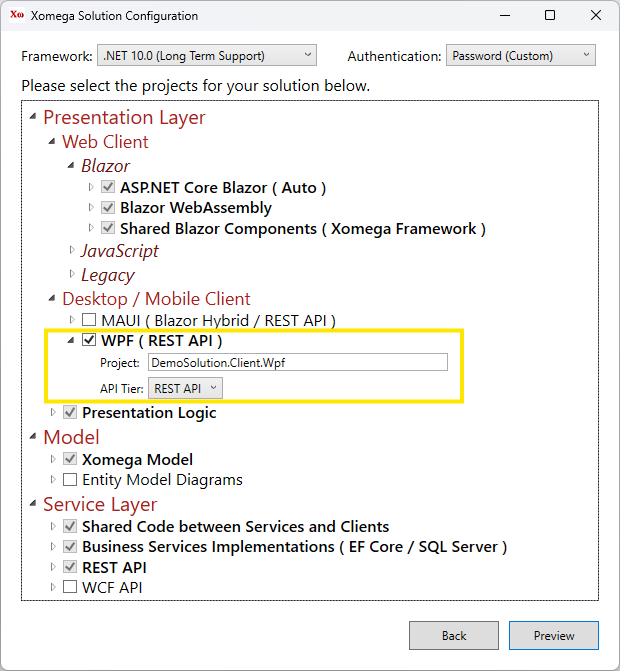
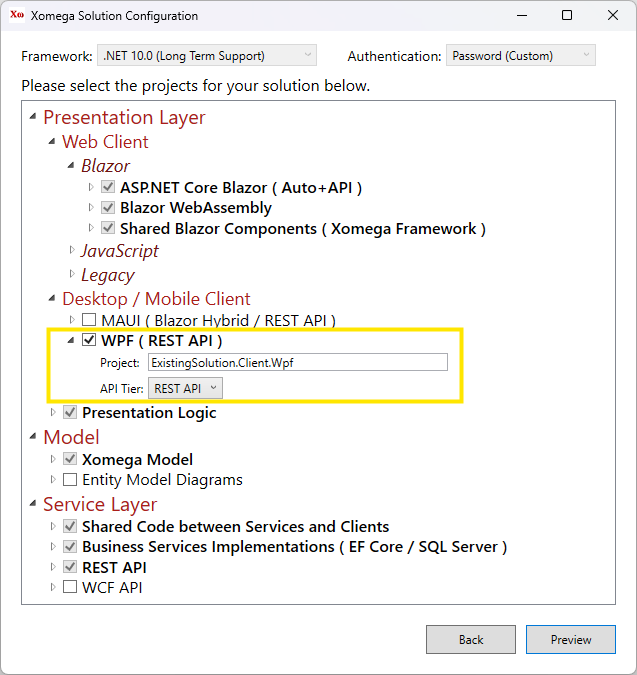
Updated docs on adding to existing solution. Updated release notes with additional bug fixes.

diff --git a/docs/visual-studio/new-projects/adding-to-solution.md b/docs/visual-studio/new-projects/adding-to-solution.md
@@ -2,110 +2,84 @@
 sidebar_position: 3
 ---
 
-# Adding to Xomega Solutions
+# Updating Xomega Solutions
 
-If you selected some projects when creating a new Xomega solution but then decided to include additional supported technologies, then you can use the same Xomega solution wizard to select and add new projects to your solution.
+If you [created a Xomega solution](new-solutions) with a certain set of projects and configuration, then you can easily add new Xomega projects to that solution later on, as well as change some configuration on the existing projects by using the same Xomega solution wizard that you used to create the solution.
 
-:::warning
-The wizard will configure any new projects that you will add, but it **won't update any existing projects**, specifically the `.Model` project, like it would have, had you selected those projects during the initial solution creation.
+## Solution update wizard
 
-You will need to make any such updates to the existing projects manually.
-:::
+To launch the Xomega solution wizard for existing solutions, right-click on the *Solution* node and select *Add > New Project*, as follows.
 
-## Example: Adding WPF client to a Blazor app
+![Add to solution](img/solution-add-project.png)
 
-For example, let's imagine that you initially created a `DemoSolution` for Blazor Server + WebAssembly, but *with standalone REST API* that is not hosted by the Blazor project. Your solution structure would look as follows.
-
-![DemoSolution](img/blazor-auto.png)
-
-### Adding a new Xomega project
-
-Now you decided to also add a desktop WPF client to your solution, which would use the existing REST API as the backend. To add the relevant projects, you can right-click on the *Solution* node, select *Add > New Project*, and pick `Xomega` as the project type, as follows.
+Then, in the *Add a new project* dialog, select `Xomega` as the project type and *Xomega Solution* template, and click *Next*.
 
 ![Add new project](img/add-new-project.png)
 
-In the next screen, you can leave the project name to be the default value.
+In the next screen, you can **skip populating the *Project name* and *Location*** fields, since the wizard will use the names of the existing projects in the solution, as well as solution's current location, and just click *Create* to proceed to the next screen.
 
 ![New project name](img/new-project-name.png)
 
-This *Project name* won't matter since the wizard will use the existing solution name to generate a default name for the new project, which you can also update later.
+The next screen will be the same *Xomega Solution Configuration* dialog that you used to [create the solution](new-solutions#selecting-solution-components), but with the existing solution configuration options prepopulated and disabled, where the solution wizard doesn't allow changing such configuration options, as illustrated below.
 
-### Adding WPF desktop client
+![Existing project wizard](img/solution-existing-projects.png)
 
-The existing solution projects displayed in the Xomega solution configuration will not be editable, but you will be able to add a *WPF* desktop client to the selection and set the *API Tier* to `REST API`, as illustrated below.
+Existing projects in the solution will be selected and disabled in the wizard, since you can't remove any existing projects, but you can select additional projects to add to the solution and configure them as needed. Configuration options on the existing projects that cannot be changed in the wizard due to major solution updates required will be disabled as well. However, some existing configuration options can be changed, as described in the next sections.
+
+### Files overwrite warning
+
+Adding new projects to the existing solution, as well as changing some configuration options on the existing projects, may require not only adding new files to the solution, but also updating some existing files, which may **overwrite any custom changes** that you may have made to those files.
+
+Specifically, new projects may require updates to the global model configuration file `global_config.xom`, project files that will be used by the new projects, as well as some startup project files `Program.cs` for additional configuration.
+
+:::danger
+Before updating your solution using the Xomega solution wizard, make sure to **commit any changes** that you may have in your source control, so that you can easily review any changes made by the wizard and revert any unwanted changes if needed.
+:::
+
+## Adding new Xomega projects
+
+To add new Xomega projects to the existing solution, just select the desired project types in the wizard and configure them as needed. You can add any number of new projects of any type, and they will be properly configured with dependencies on any existing projects in the solution.
+
+### Adding entity diagrams
+
+If you want to be able to generate entity model diagrams for your model entities, then you can add a new [*Entity Model Diagrams*](solution-structure#solutionnamemodeldiagrams) project. In addition to the new project, this will also add [*Entity Data Model* generator](../../generators/data/edm) to the model project, as well as required EDM type mappings. The following screenshot illustrates the new project and the generated diagrams for the sample model.
+
+![Model diagrams](img/model-diagrams.png)
+
+### Adding modern projects
+
+Xomega solutions are architected in a way that allows multiple UI projects using different technologies to coexist in the same solution and share the same model, services and even common presentation logic. For example, if your existing solution has a Blazor Server and WebAssembly projects, you can easily add a WPF desktop client project to the same solution and share the same model and services with it, as shown below.
 
 ![Add WPF with rest](img/add-wpf-rest.png)
 
 :::note
-Notice how the default project names are automatically generated based on the solution name here, and disregard the project name that you supplied in the previous screen.
+Notice how the default project names are automatically generated based on the solution name here, and disregard the project name from the previous *Configure your new project* screen.
 :::
 
-After you hit *Preview* and then *Create*, you'll see the new project in your solution, preconfigured with proper dependencies on any existing projects, as shown below.
+Adding a WPF project will require updating the `global_config.xom` file to specify the assembly for the shared data objects, which may [overwrite any custom changes](#files-overwrite-warning) that you may have in that file.
 
-![WPF solution](img/wpf-solution.png)
+Similarly, if your initial Blazor project was hosting the REST API for the WebAssembly client, then adding a new WPF project with REST API will require updating the `.Services.Rest` project to allow running it separately and enable JWT authentication, which may also overwrite any changes that you may have in that project. The same applies to adding other client projects with REST API, such as MAUI or SPA projects.
 
-### Additional manual updates
+### Adding legacy projects
 
-Now you have to update and configure any existing projects to support the newly added projects. Normally, when creating a new solution from scratch, those projects are automatically configured for the selected technologies by the solution wizard. However, since we added a new project to an existing solution, we'll need to configure the existing projects manually.
+Xomega solution wizard also allows adding legacy projects that require .NET Framework, such as ASP.NET Web Forms or WCF. However, since those projects reuse the same presentation and/or service logic as the modern projects, you will need to update shared projects to enable multi-targeting for both .NET Framework and .NET to make this setup work.
 
-To make this process easier you should open another instance of Visual Studio and [create a new Xomega solution](new-solutions) for the WPF client with REST API in a separate folder, using the same solution name `DemoSolution`, which you'll use as a template. This will allow you to just copy any configuration from that folder into your existing solution.
+This multi-targeting setup is supported if you select both legacy and modern projects in the wizard when creating the solution, but not when adding legacy projects to an existing solution with modern projects, since this is not something you normally would want to do in practice, so you'll need to make some manual updates to the project files for the shared projects.
 
-#### Adding WPF controls type configs
+## Updating Xomega projects
 
-Copy the `DemoSolution.Model\Framework\TypeConfigs\wpf_controls.xom` from the new template WPF solution that you created earlier to your existing solution. This will add the necessary type configurations for generating WPF controls in your existing solution.
+In addition to adding new projects to the existing solution, Xomega solution wizard also allows limited updates to the existing projects, as described below.
 
-#### Adding WPF Views generator
+### Switching to Syncfusion components
 
-To add a *WPF Views* generator, copy the generator configuration file from the `.Generators\PresentationLayer\WPF\WPF Views.xgen` in your template WPF solution project to your existing project, and make sure the paths and namespaces match your existing solution, as illustrated below.
+If you initially created a Blazor project with `Xomega Framework` Blazor components, you can switch it to use Syncfusion Blazor components by changing the *Components* option on the *Shared Blazor Components* project to `Syncfusion` in the solution wizard, as shown below.
 
-```xml title='.Generators\PresentationLayer\WPF\WPF Views.xgen'
-<XomGeneratorConfig xmlns="http://schemas.xomega.net/v10/xgen"
-                    xmlns:view="http://schemas.xomega.net/v10/xgen/views">
-  ...
-  <Generator Xsl="UI/WPF/wpf_views.xsl"
-             GeneratorGroup="presentation"
-             IncludeInBuild="true"
-             IndividualFiles="true"/>
+![Switch to Syncfusion](img/blazor-config-change.png)
 
-<!-- highlight-start -->
-  <view:Output Path="../DemoSolution.Client.Wpf/Views/{Module/}{File}"
-               RegistryFile="../DemoSolution.Client.Wpf/Views/Views.cs"
-               MenuFile="../DemoSolution.Client.Wpf/Controls/MainMenu"/>
+This will add type configurations for Syncfusion components to the Model project under `Framework/TypeConfigs/blazor_xsf.xom`, as well as the [*Syncfusion Blazor Views* generator](../../generators/presentation/blazor/views-xsf), which will be included in the Model build.
 
-  <view:Parameters Namespace="DemoSolution.Client.Wpf"/>
-<!-- highlight-end -->
+:::danger
+This will also update the existing Blazor projects and their main files, such as `Program.cs`, `appsettings.json`, `_Imports.razor` and `App.razor` to switch to Syncfusion components, which may [**overwrite any custom changes**](#files-overwrite-warning) that you may have in those files.
+:::
 
-</XomGeneratorConfig>
-```
-
-
-You should now be able to see the *WPF Views* generator under the *.Generators > Presentation Layer > WPF* folder, as well as the `wpf_controls.xom` that you included earlier, as shown below.
-
-![WPF Views](img/wpf-views.png)
-
-#### Adding assembly config for data objects
-
-When generating WPF views, the generator needs to know the namespace and assembly where the data objects are located. Therefore, you need to update the `xfk:data-objects-config` element in the `global_config.xom` file to include the assembly name, as shown below.
-
-```xml title="global_config.xom"
-...
-  <!-- configuration for generation of UI data objects -->
-  <xfk:data-objects-config
-    namespace="DemoSolution.Client.Common.DataObjects"
-<!-- added-next-line -->
-    assembly="DemoSolution.Client.Common"
-  />
-...
-```
-
-Now you want to right-click on the `DemoSolution.Model` project and select *Build* to generate any additional artifacts for the new project.
-
-#### Other possible updates
-
-If you initially had the REST API hosted by the Blazor application rather than as a standalone service, then you would need to do some additional updates, as described below.
-
-- Copy the `DemoSolution.Services.Rest/Program.cs` file from the template solution to the existing REST API project to allow running it separately.
-- Update the `DemoSolution.Services.Rest/AuthController` class to enable JWT authentication using the corresponding code from the template solution.
-- Copy `DemoSolution.Client.Common/ServiceClients/Auth/JwtLoginServiceClient.cs` from the template solution to handle JWT authentication on the client.
-
-Any other initial configurations or a different configuration of the new project may require additional manual updates, as appropriate.
+Note that switching to Syncfusion components will not remove the existing `blazor.xom` type configuration file and the [*Blazor Views* generator](../../generators/presentation/blazor/views), which will be excluded from the Model build. This allows you to easily switch back to the original Xomega Framework Blazor components if so desired. Therefore, the option to select Blazor *Components* in the wizard will become disabled after that.

diff --git a/docs/platform/releases/vs2026.md b/docs/platform/releases/vs2026.md
@@ -10,7 +10,7 @@ Below is a summary of the release notes for the *Xomega.Net for Visual Studio 20
 
 ## Version 10.1.0
 
-Release Date: 6/?/2026
+Release Date: 6/18/2026
 
 ### New features
 
@@ -24,8 +24,8 @@ Release Date: 6/?/2026
   - [Enhanced *Collapse To Definitions*](../../visual-studio/extend/editor#configuring-collapse-to-definitions) to allow collapsing elements (`fieldset`, `fields` and `subobject`) only for services, i.e. when an object has an `operation` element.
 
 - **Support for modifying Xomega Solution**
-  - Support for easily [adding new projects](../../visual-studio/new-projects/adding-to-solution.md) (Blazor, WPF, MAUI or SPA) to existing Xomega solutions.
-  - Support for switching to Syncfusion Blazor components on existing Blazor projects with Xomega components.
+  - Support for easily [adding new projects](../../visual-studio/new-projects/adding-to-solution#adding-modern-projects) (Blazor, WPF, MAUI or SPA) to existing Xomega solutions.
+  - Support for [switching to Syncfusion Blazor components](../../visual-studio/new-projects/adding-to-solution#switching-to-syncfusion-components) on existing Blazor projects with Xomega components.
 
 ### Minor changes
 
@@ -36,10 +36,13 @@ Release Date: 6/?/2026
 ### Bug fixes
 
 - Fixed VS freezes when editing XSDs due to excessive `ThrowIfNotOnUIThread` from non-UI threads.
-- Fixed `ArgumentException` about the path when adding new Xomega projects to a Xomega solution.
 - Fixed database script generators to use proper DBCase `pascal` instead of old `camel`.
-- Fixed generated entity context name in solution template when solution name contains a dot.
-- Fixed MAUI project template for Syncfusion Blazor components.
+- Fixed *Find in Files* search for `.xom` files in the model project.
+- **Xomega solution wizard fixes**
+  - Fixed `ArgumentException` about the path when adding new Xomega projects to a Xomega solution.
+  - Fixed generated entity context name in solution template when solution name contains a dot.
+  - Fixed MAUI project template for Syncfusion Blazor components.
+  - *Framework* and *Authentication* are now populated from existing configuration and disabled in the solution wizard.
 
 
 ## Version 10.0.2
